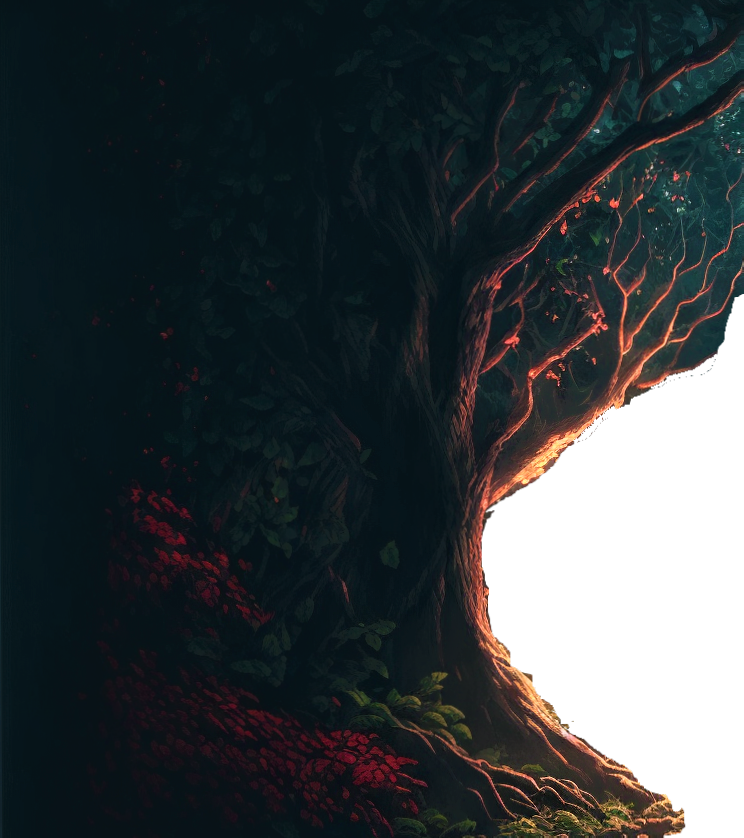
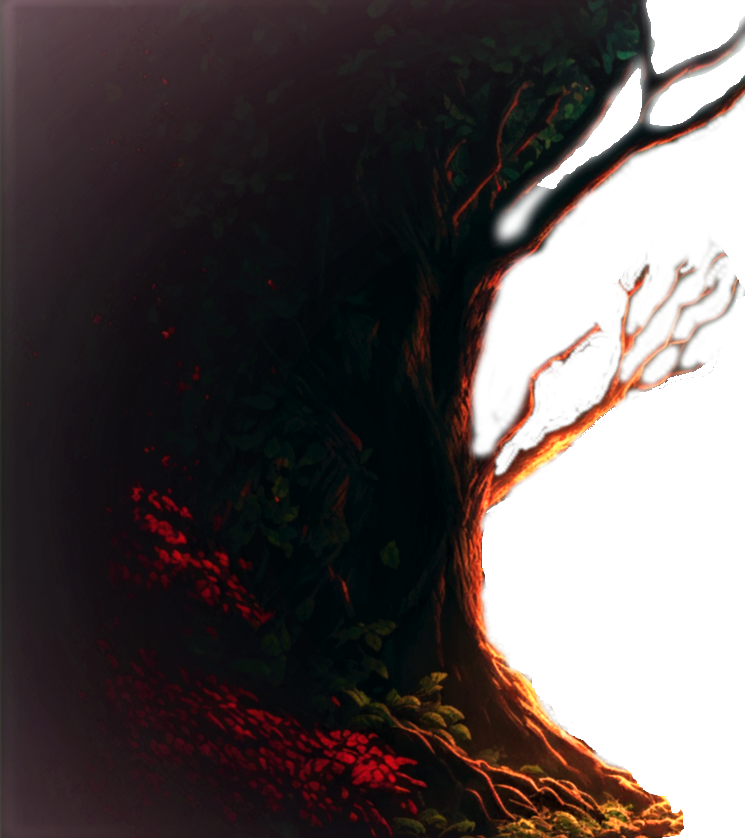
Fan Page Main Image Section Done

diff --git a/capstone-project/src/Components/FanPageMainPicture/style.css b/capstone-project/src/Components/FanPageMainPicture/style.css
@@ -1,0 +1,89 @@
+.magicalSplit {
+    position: relative;
+    text-align: center;
+    z-index: -1;
+    top: -120px;
+    height: 120vh;
+    margin-bottom: -100px;
+    overflow: hidden;
+}
+
+.magicalSplit::before,
+.magicalSplit::after {
+    content: "";
+    position: absolute;
+    top: 0;
+    width: 50%;
+    height: 105%;
+    background-size: cover;
+    background-position: center;
+    background-repeat: no-repeat;
+    transition: transform 3s ease;
+    z-index: 5;
+}
+
+.magicalSplit::before {
+    left: 0;
+    transform: translateX(0);
+    background-image: url(../../assets/images/FanPagePictures/Closing-Tree-Left.png);
+}
+
+.magicalSplit::after {
+    right: 0;
+    transform: translateX(0);
+    background-image: url(../../assets/images/FanPagePictures/Closing-Tree-Right.png);
+}
+
+.magicalSplit.active::before {
+    transform: translateX(-100%);
+}
+
+.magicalSplit.active::after {
+    transform: translateX(100%);
+}
+
+.magicalSplitInner {
+    position: absolute;
+    width: 100%;
+    height: 100%;
+    text-align: center;
+    display: flex;
+    justify-content: center;
+}
+
+.magicalSplitInner::before {
+    content: '';
+    display: block;
+    position: absolute;
+    width: 100%;
+    height: 100%;
+    top: 0;
+    left: 0;
+    bottom: 0;
+    right: 0;
+    background-image: url('../../assets/images/FanPagePictures/Magic-Background.png');
+    background-position: center;
+    background-repeat: no-repeat;
+    background-size: cover;
+    background-attachment: fixed;
+    filter: brightness(50%);
+    z-index: -1;
+}
+
+
+.magicalSplitInner h1 {
+    opacity: 0;
+    position: absolute;
+    top: 35%;
+    font-size: 75px;
+    color: #ffffff;
+    font-weight: bold;
+    text-transform: uppercase;
+    letter-spacing: 10px;
+    filter: drop-shadow(0 0 0.2rem #ffffffbd);
+    transition: opacity 4s ease;
+}
+
+.magicalSplitInner.active h1 {
+    opacity: 1;
+}

diff --git a/capstone-project/src/Pages/Fan Page/index.jsx b/capstone-project/src/Pages/Fan Page/index.jsx
@@ -1,6 +1,5 @@
 import {React, useEffect} from "react";
-import MainPic from "../../assets/images/BackgroundImages/FanPageMain.jpg";
-import MainPicture from "../../Components/MainPicture";
+import FanPageMainPicture from "../../Components/FanPageMainPicture";
 
 export default function FanPage() {
     useEffect(() => {
@@ -8,7 +7,7 @@ export default function FanPage() {
     })
     return (
         <div className="main">
-            <MainPicture img={MainPic} headline="Get lost in the magic of movies"/>
+            <FanPageMainPicture/>
         </div>
     );
 }

diff --git a/capstone-project/src/Components/FanPageMainPicture/index.jsx b/capstone-project/src/Components/FanPageMainPicture/index.jsx
@@ -1,0 +1,18 @@
+import {React, useState, useEffect} from "react";
+import "./style.css";
+
+export default function FanPageMainPicture() {
+    const [active, setActive] = useState(false);
+    useEffect(() => {
+        setTimeout(() => {
+            setActive(true);
+        }, 2000);
+    }, [])
+    return (
+        <div className={`magicalSplit ${active ? "active" : ""}`}>
+            <div className={`magicalSplitInner ${active ? "active" : ""}`}>
+                <h1>Enter The World of Magic</h1>
+            </div>
+        </div>
+    );
+}
